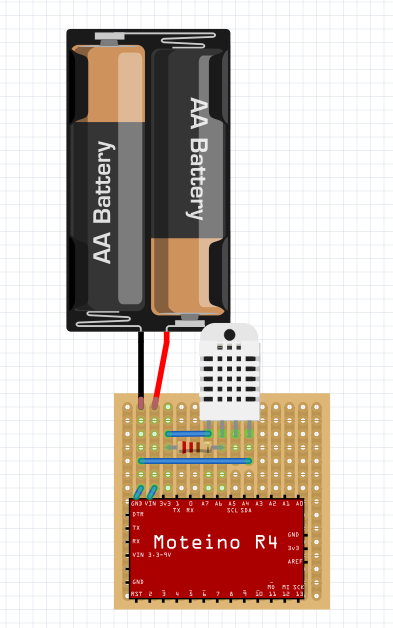
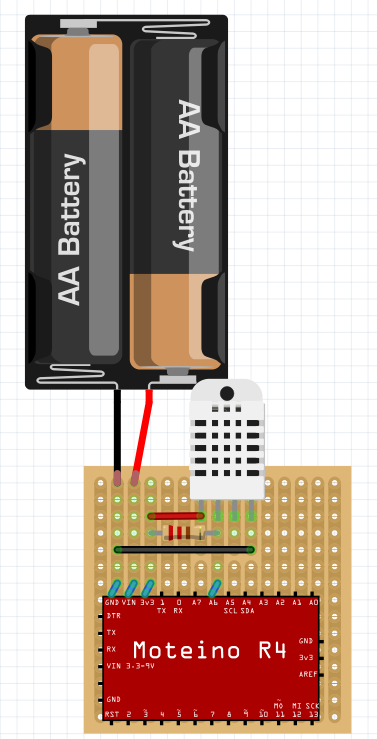
Updated fritzing pics and created new folder for mote with single DHT22

diff --git a/rasPi/readFromSerial.py b/rasPi/readFromSerial.py
@@ -63,7 +63,7 @@ if ser.isOpen():
                 response += " \"timeStamp\"  : \"" + dateString + "\"}"
                 print(response)
                 j = json.loads(response) #TODO: I get an error here if the json is misformatted (only recieve partial transmission)
-                if(j["sID"] == 19):
+                if(j["nodeID"] == 3):
                     print("\n")
                 # r = requests.post('http://ec2-54-202-217-172.us-west-2.compute.amazonaws.com/api/v1/readings',
                 #     headers = {'Content-type': 'application/json'}, 
